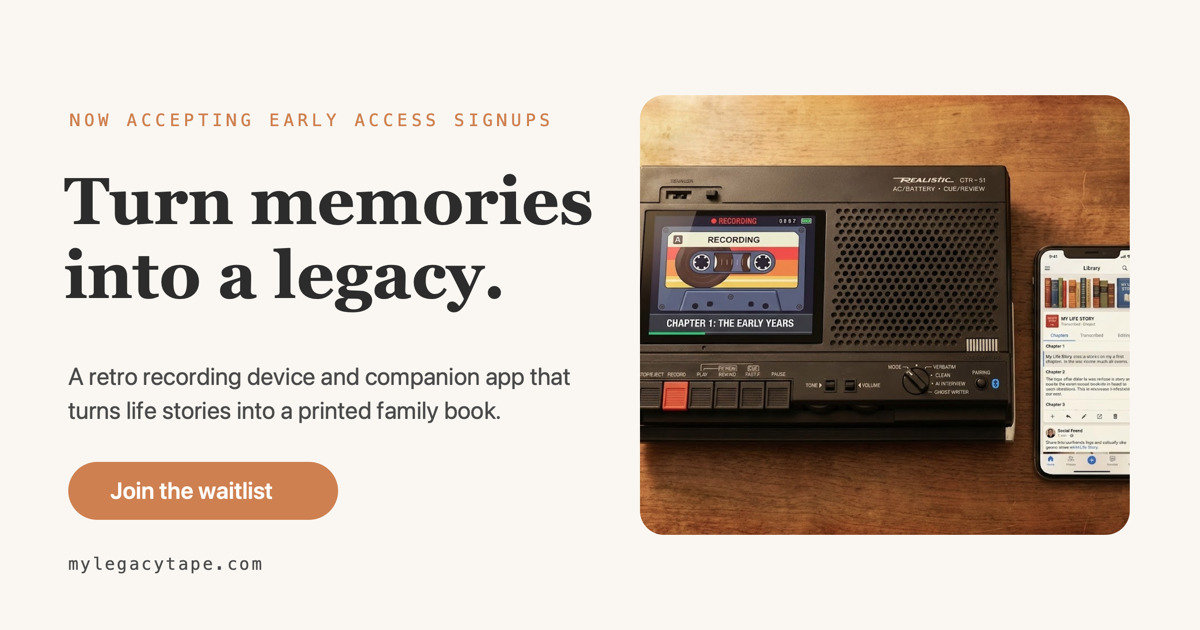
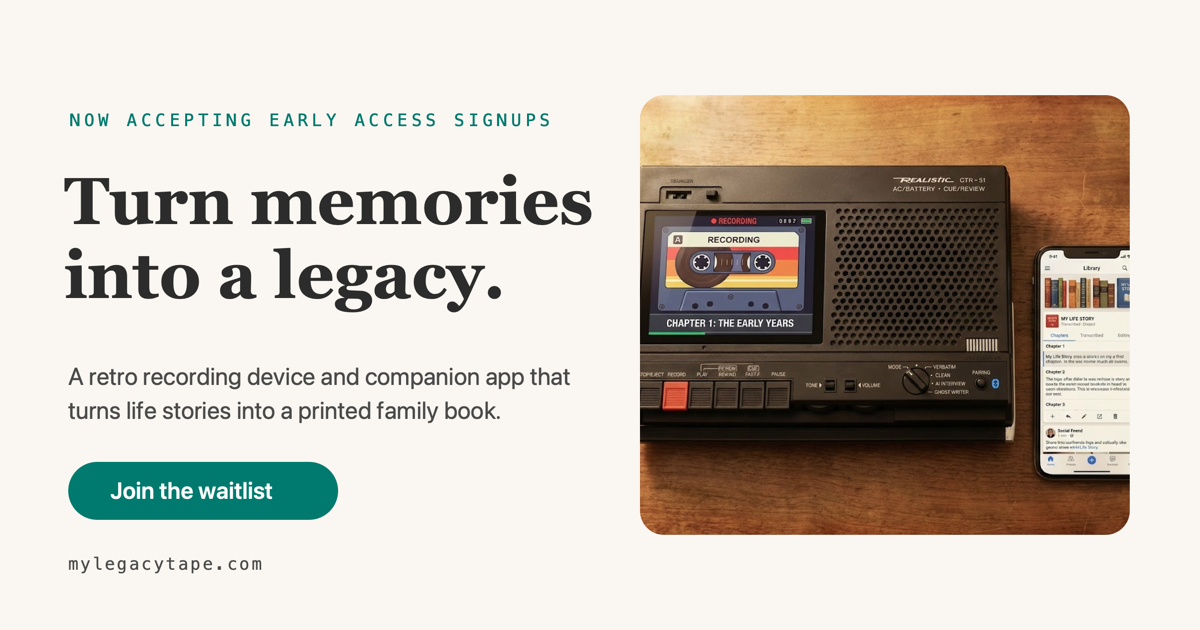
Shift the accent from terracotta to a vintage hi-fi teal
The cream-plus-terracotta palette read too close to a generic AI
look. Move the accent to a deep teal that suits a retro recorder,
keeping the warm cream background and the tape photography. Tuned
for contrast: white on teal passes AA on buttons, and the teal
step numbers pass on the dark sections. Share image recolored to
match.

Changed region(s): [[0.0308, 0.7238, 0.3083, 0.8444], [0.0617, 0.181, 0.4625, 0.2111]]

diff --git a/src/index.css b/src/index.css
@@ -6,8 +6,12 @@
   --color-graphite: #4A4A4A;
   --color-muted-gray: #8A8A8A;
   --color-warm-white: #FFFDF9;
-  --color-amber: #C8804A;
-  --color-amber-dark: #A8643A;
+  /* Accent: vintage hi-fi teal. Token keeps the "amber" name so every
+     bg-amber / text-amber utility across the app recolors at once. The
+     value is tuned to pass contrast on both the cream and tape-black
+     sections (and white text on the buttons). */
+  --color-amber: #207A6E;
+  --color-amber-dark: #186056;
   --color-soft-red: #B85C4E;
   --color-tape-black: #1A1A1A;
   --color-metallic: #D4CFC8;